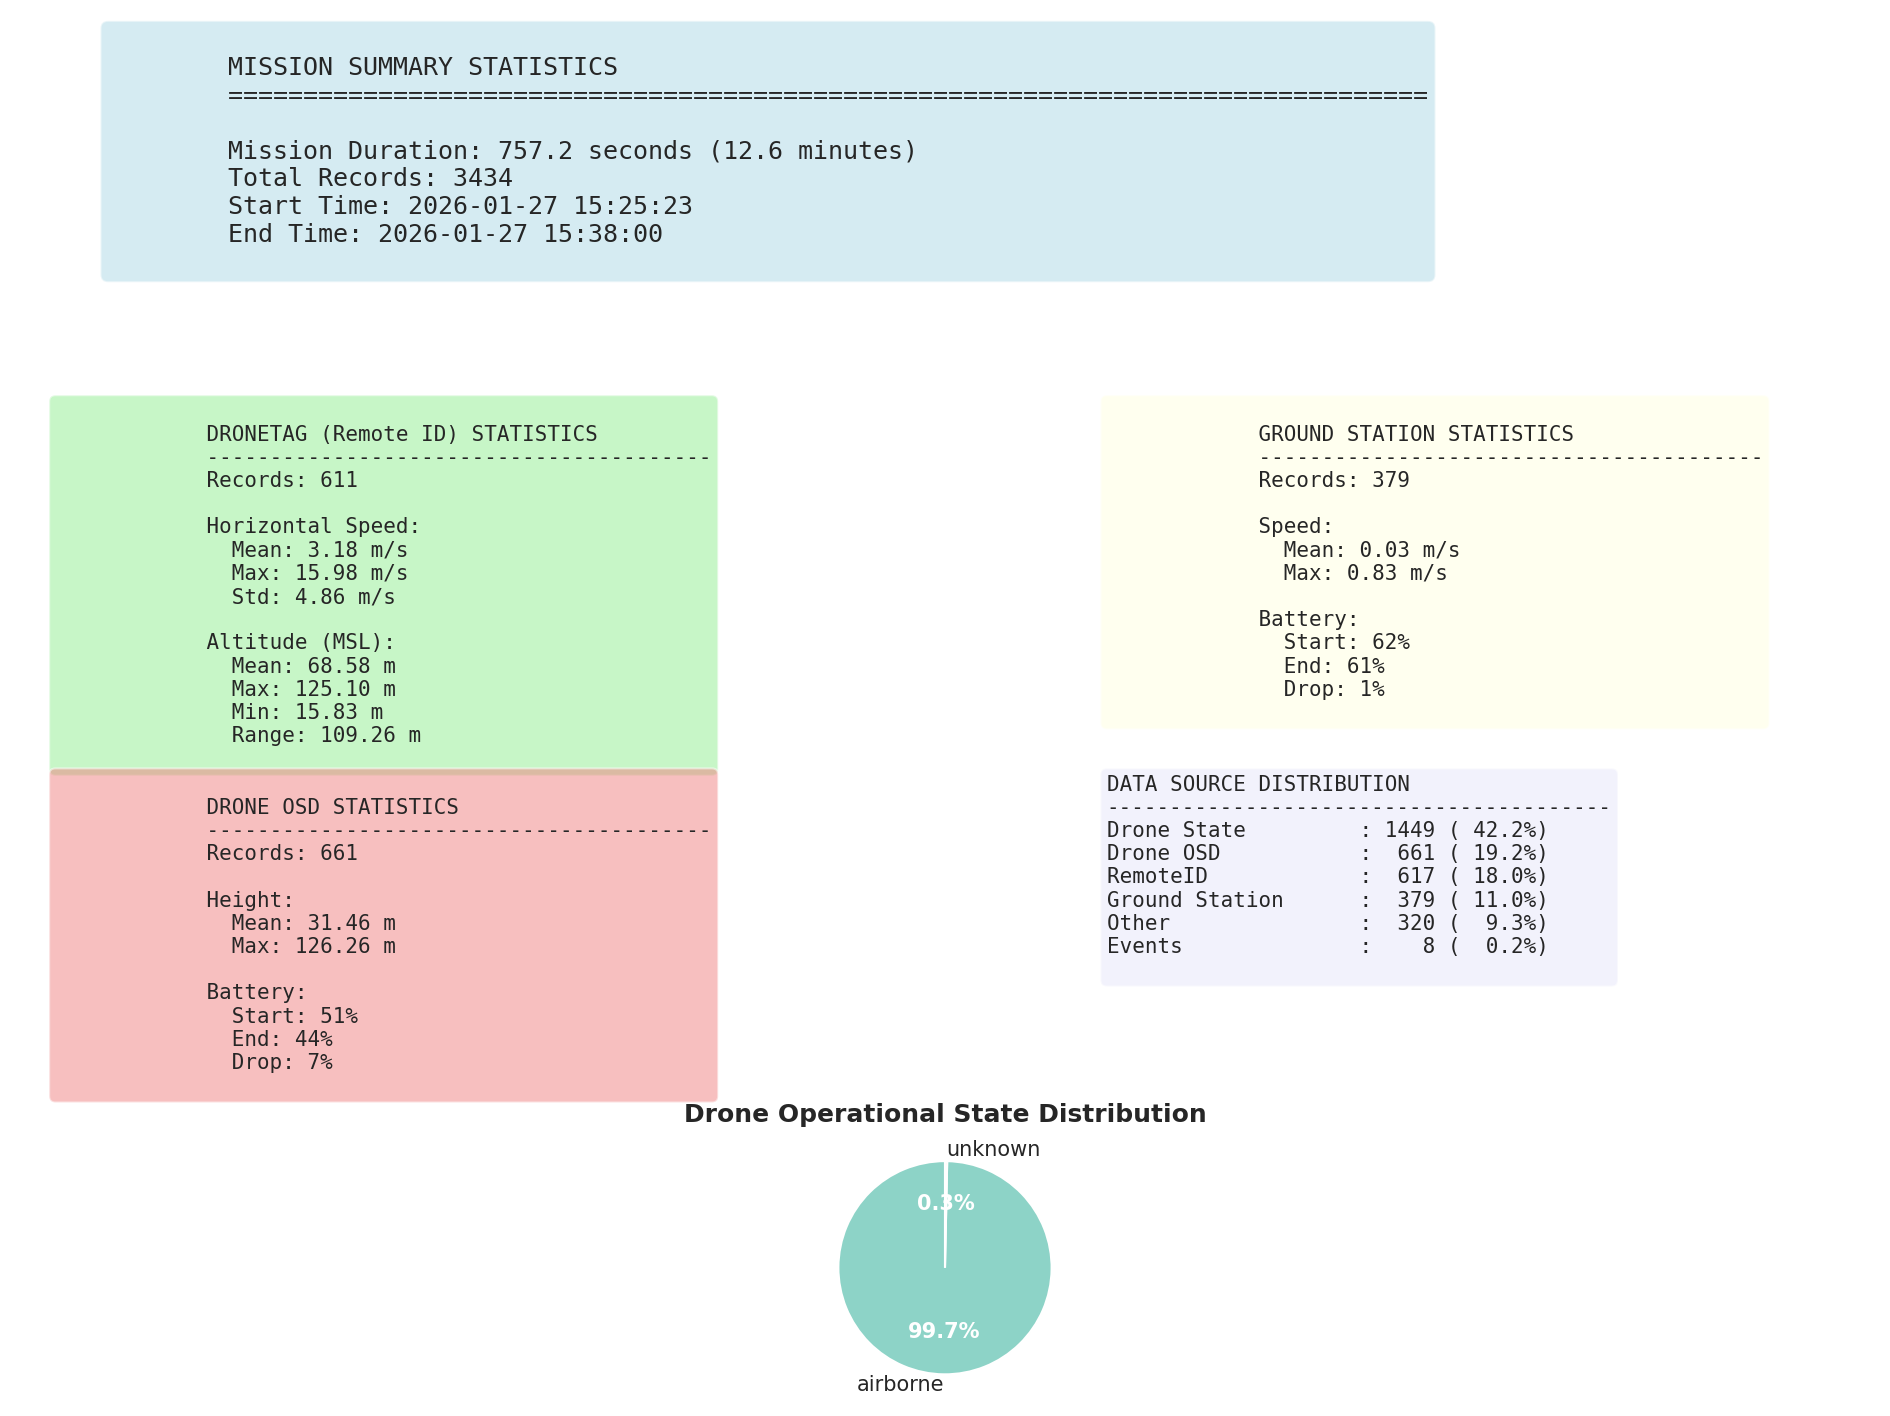
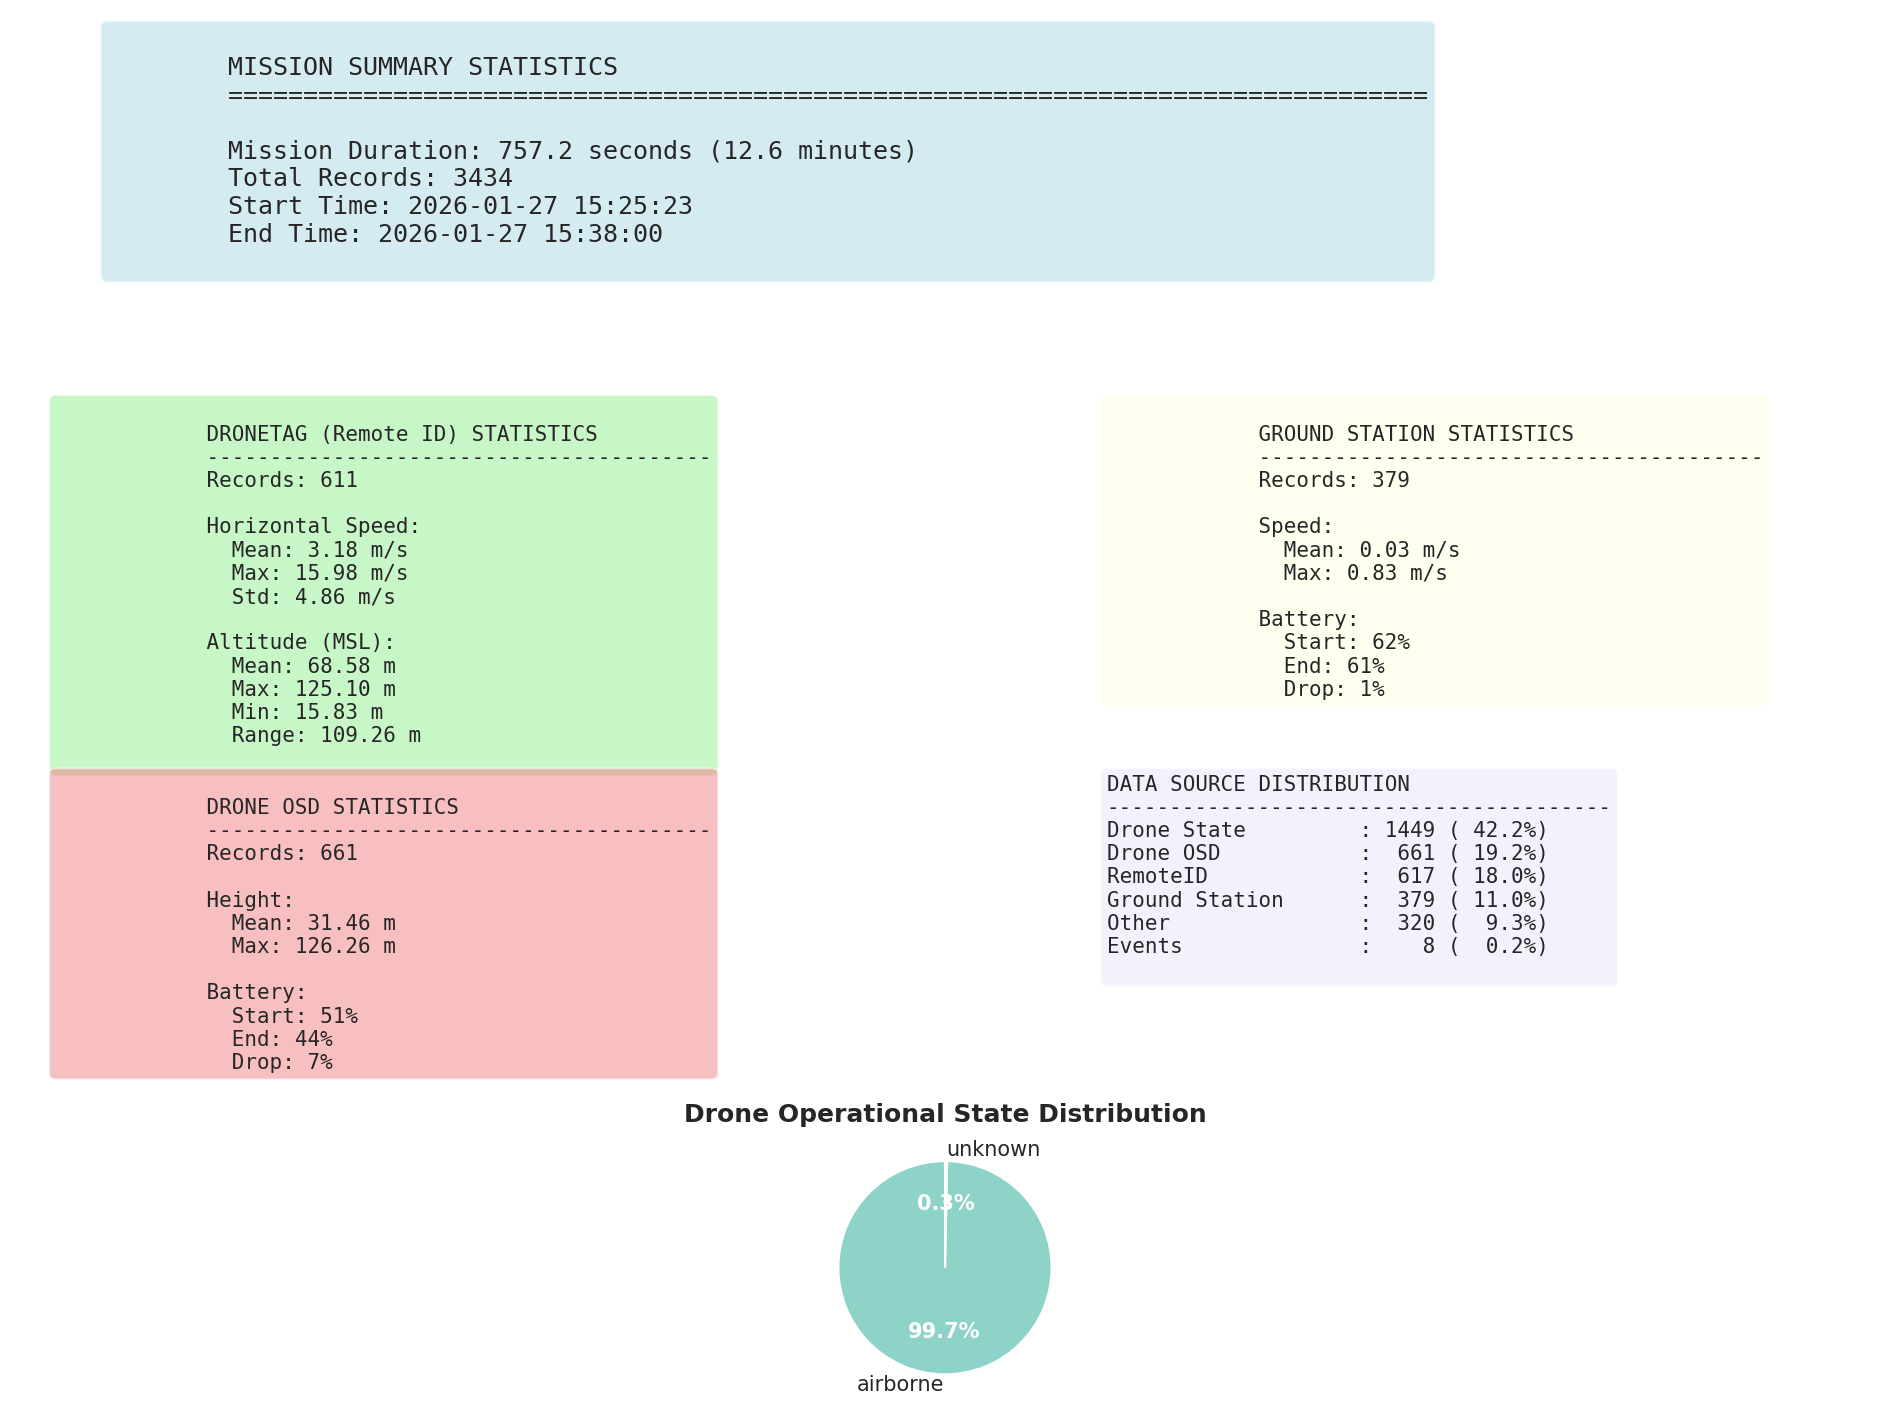
Refactor EDA script: add constants, improve validation, fix edge cases

Changed region(s): [[0.0312, 0.7458, 0.3746, 0.7768]]

diff --git a/labs/eda_mission_analysis.py b/labs/eda_mission_analysis.py
@@ -25,6 +25,11 @@ plt.rcParams['figure.dpi'] = 100
 class MissionDataAnalyzer:
     """Analyzes and visualizes SecuringSkies mission telemetry data."""
     
+    # Configuration constants
+    OUTPUT_DPI = 150
+    BATTERY_WARNING_THRESHOLD = 20  # Battery warning level (%)
+    TEMPORAL_BIN_SIZE_SECONDS = 10  # Bin size for temporal analysis
+    
     def __init__(self, jsonl_path, output_dir='docs/eda_plots'):
         """
         Initialize the analyzer.
@@ -54,9 +59,15 @@ class MissionDataAnalyzer:
         with open(self.jsonl_path, 'r') as f:
             for line in f:
                 try:
-                    self.records.append(json.loads(line))
+                    record = json.loads(line)
+                    # Validate basic structure
+                    if 'ts' in record and 'topic' in record and 'data' in record:
+                        self.records.append(record)
                 except json.JSONDecodeError:
                     continue
+        
+        if not self.records:
+            raise ValueError(f"No valid records found in {self.jsonl_path}")
         
         print(f"✅ Loaded {len(self.records)} records")
         return self
@@ -223,7 +234,7 @@ class MissionDataAnalyzer:
         
         plt.tight_layout()
         output_path = os.path.join(self.output_dir, '01_flight_paths.png')
-        plt.savefig(output_path, dpi=150, bbox_inches='tight')
+        plt.savefig(output_path, dpi=self.OUTPUT_DPI, bbox_inches='tight')
         print(f"  ✅ Saved: {output_path}")
         plt.close()
     
@@ -295,7 +306,7 @@ class MissionDataAnalyzer:
         
         plt.tight_layout()
         output_path = os.path.join(self.output_dir, '02_altitude_profiles.png')
-        plt.savefig(output_path, dpi=150, bbox_inches='tight')
+        plt.savefig(output_path, dpi=self.OUTPUT_DPI, bbox_inches='tight')
         print(f"  ✅ Saved: {output_path}")
         plt.close()
     
@@ -358,7 +369,7 @@ class MissionDataAnalyzer:
         
         plt.tight_layout()
         output_path = os.path.join(self.output_dir, '03_speed_analysis.png')
-        plt.savefig(output_path, dpi=150, bbox_inches='tight')
+        plt.savefig(output_path, dpi=self.OUTPUT_DPI, bbox_inches='tight')
         print(f"  ✅ Saved: {output_path}")
         plt.close()
     
@@ -377,8 +388,8 @@ class MissionDataAnalyzer:
                        color='red', linewidth=2, marker='o', markersize=3)
                 ax.fill_between(battery_data['mission_time_s'], battery_data['battery'], 
                                alpha=0.3, color='red')
-                ax.axhline(y=20, color='orange', linestyle='--', 
-                          label='Warning Level (20%)', alpha=0.7)
+                ax.axhline(y=self.BATTERY_WARNING_THRESHOLD, color='orange', linestyle='--', 
+                          label=f'Warning Level ({self.BATTERY_WARNING_THRESHOLD}%)', alpha=0.7)
                 ax.set_xlabel('Mission Time (seconds)')
                 ax.set_ylabel('Battery Level (%)')
                 ax.set_title('Drone Battery Level', fontweight='bold')
@@ -395,8 +406,8 @@ class MissionDataAnalyzer:
                        color='blue', linewidth=2, marker='o', markersize=3)
                 ax.fill_between(battery_data['mission_time_s'], battery_data['battery'], 
                                alpha=0.3, color='blue')
-                ax.axhline(y=20, color='orange', linestyle='--', 
-                          label='Warning Level (20%)', alpha=0.7)
+                ax.axhline(y=self.BATTERY_WARNING_THRESHOLD, color='orange', linestyle='--', 
+                          label=f'Warning Level ({self.BATTERY_WARNING_THRESHOLD}%)', alpha=0.7)
                 ax.set_xlabel('Mission Time (seconds)')
                 ax.set_ylabel('Battery Level (%)')
                 ax.set_title('Ground Station Battery Level', fontweight='bold')
@@ -406,7 +417,7 @@ class MissionDataAnalyzer:
         
         plt.tight_layout()
         output_path = os.path.join(self.output_dir, '04_battery_monitoring.png')
-        plt.savefig(output_path, dpi=150, bbox_inches='tight')
+        plt.savefig(output_path, dpi=self.OUTPUT_DPI, bbox_inches='tight')
         print(f"  ✅ Saved: {output_path}")
         plt.close()
     
@@ -474,7 +485,7 @@ class MissionDataAnalyzer:
         
         plt.tight_layout()
         output_path = os.path.join(self.output_dir, '05_link_quality.png')
-        plt.savefig(output_path, dpi=150, bbox_inches='tight')
+        plt.savefig(output_path, dpi=self.OUTPUT_DPI, bbox_inches='tight')
         print(f"  ✅ Saved: {output_path}")
         plt.close()
     
@@ -493,7 +504,8 @@ class MissionDataAnalyzer:
             relative_times = [(ts - min_ts) for ts in all_timestamps]
             
             # Create bins for message rate
-            bins = np.arange(0, max(relative_times) + 10, 10)  # 10-second bins
+            bin_size = self.TEMPORAL_BIN_SIZE_SECONDS
+            bins = np.arange(0, max(relative_times) + bin_size, bin_size)
             hist, edges = np.histogram(relative_times, bins=bins)
             centers = (edges[:-1] + edges[1:]) / 2
             
@@ -544,7 +556,7 @@ class MissionDataAnalyzer:
         
         plt.tight_layout()
         output_path = os.path.join(self.output_dir, '06_temporal_distribution.png')
-        plt.savefig(output_path, dpi=150, bbox_inches='tight')
+        plt.savefig(output_path, dpi=self.OUTPUT_DPI, bbox_inches='tight')
         print(f"  ✅ Saved: {output_path}")
         plt.close()
     
@@ -623,11 +635,16 @@ class MissionDataAnalyzer:
               Mean: {speed_data.mean():.2f} m/s
               Max: {speed_data.max():.2f} m/s
             
-            Battery:
+            Battery:"""
+            
+            if not battery_data.empty:
+                stats_text += f"""
               Start: {battery_data.iloc[0]:.0f}%
               End: {battery_data.iloc[-1]:.0f}%
-              Drop: {battery_data.iloc[0] - battery_data.iloc[-1]:.0f}%
-            """
+              Drop: {battery_data.iloc[0] - battery_data.iloc[-1]:.0f}%"""
+            else:
+                stats_text += """
+              No battery data available"""
             
             ax.text(0.05, 0.95, stats_text, transform=ax.transAxes, 
                    fontsize=10, verticalalignment='top', fontfamily='monospace',
@@ -650,11 +667,16 @@ class MissionDataAnalyzer:
               Mean: {height_data.mean():.2f} m
               Max: {height_data.max():.2f} m
             
-            Battery:
+            Battery:"""
+            
+            if not battery_data.empty:
+                stats_text += f"""
               Start: {battery_data.iloc[0]:.0f}%
               End: {battery_data.iloc[-1]:.0f}%
-              Drop: {battery_data.iloc[0] - battery_data.iloc[-1]:.0f}%
-            """
+              Drop: {battery_data.iloc[0] - battery_data.iloc[-1]:.0f}%"""
+            else:
+                stats_text += """
+              No battery data available"""
             
             ax.text(0.05, 0.95, stats_text, transform=ax.transAxes, 
                    fontsize=10, verticalalignment='top', fontfamily='monospace',
@@ -709,7 +731,7 @@ class MissionDataAnalyzer:
         
         plt.tight_layout()
         output_path = os.path.join(self.output_dir, '07_summary_statistics.png')
-        plt.savefig(output_path, dpi=150, bbox_inches='tight')
+        plt.savefig(output_path, dpi=self.OUTPUT_DPI, bbox_inches='tight')
         print(f"  ✅ Saved: {output_path}")
         plt.close()
         
